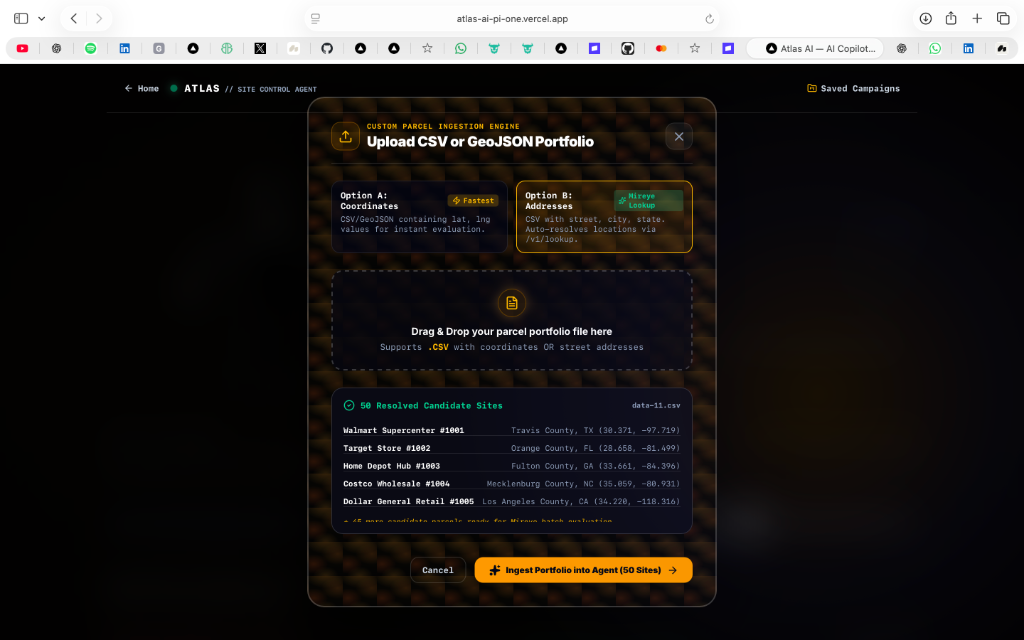
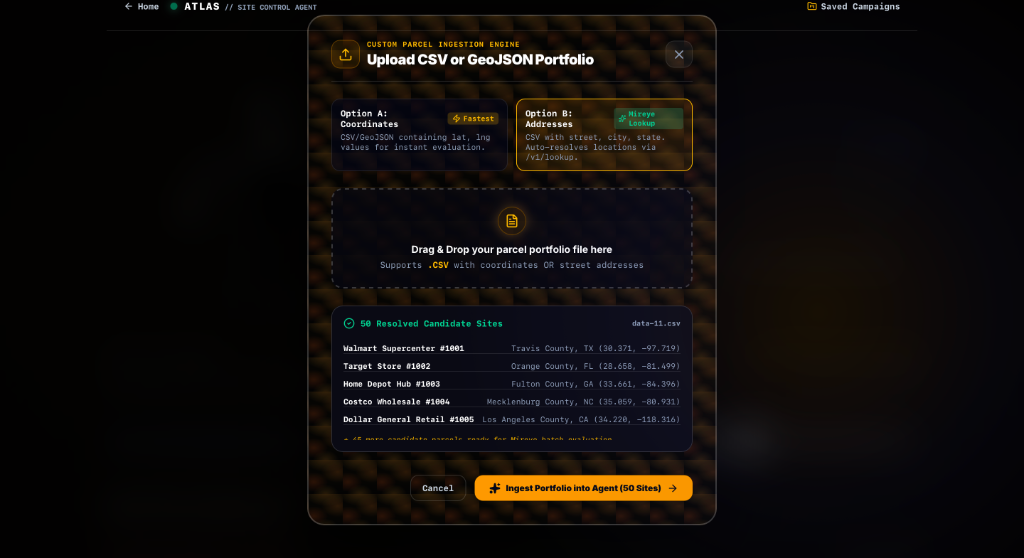
docs: crop browser tab bars off UI screenshots for clean app presentation in README.md

diff --git a/scratch/crop_browser_tabs.py b/scratch/crop_browser_tabs.py
@@ -1,0 +1,31 @@
+# scratch/crop_browser_tabs.py
+import os
+from PIL import Image
+
+images_dir = "/Users/air/Desktop/Atlas/public/images"
+ui_image_files = [
+    "00_hero_landing_page.png",
+    "01_siting_pipeline_status.png",
+    "02_live_map_inspector.png",
+    "03_replayable_ai_trace.png",
+    "04_decision_ledger_copilot.png",
+    "05_investment_memo.png"
+]
+
+# Amount of pixels to crop from the top (Safari browser window bar + tabs)
+CROP_TOP_PIXELS = 82
+
+for filename in ui_image_files:
+    file_path = os.path.join(images_dir, filename)
+    if os.path.exists(file_path):
+        with Image.open(file_path) as img:
+            width, height = img.size
+            if height > CROP_TOP_PIXELS + 100:
+                # Crop box: (left, upper, right, lower)
+                cropped = img.crop((0, CROP_TOP_PIXELS, width, height))
+                cropped.save(file_path)
+                print(f"Successfully cropped top browser tabs from {filename} ({width}x{height} -> {width}x{height - CROP_TOP_PIXELS})")
+            else:
+                print(f"Skipped {filename} (too small to crop)")
+    else:
+        print(f"Warning: {filename} not found")
